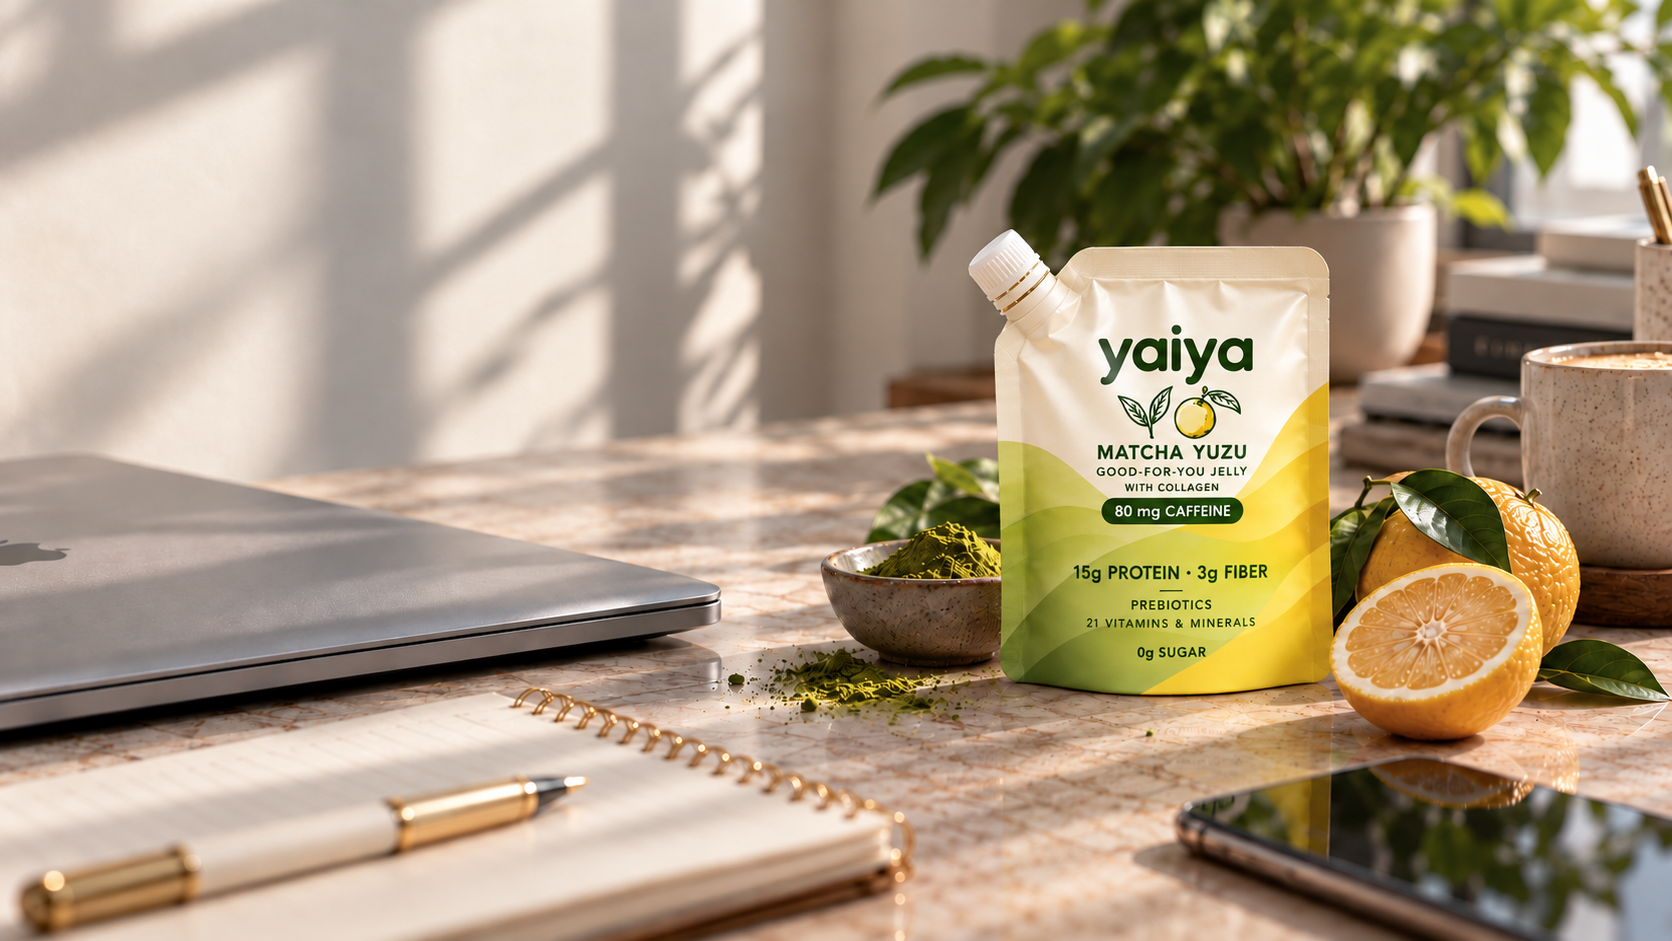
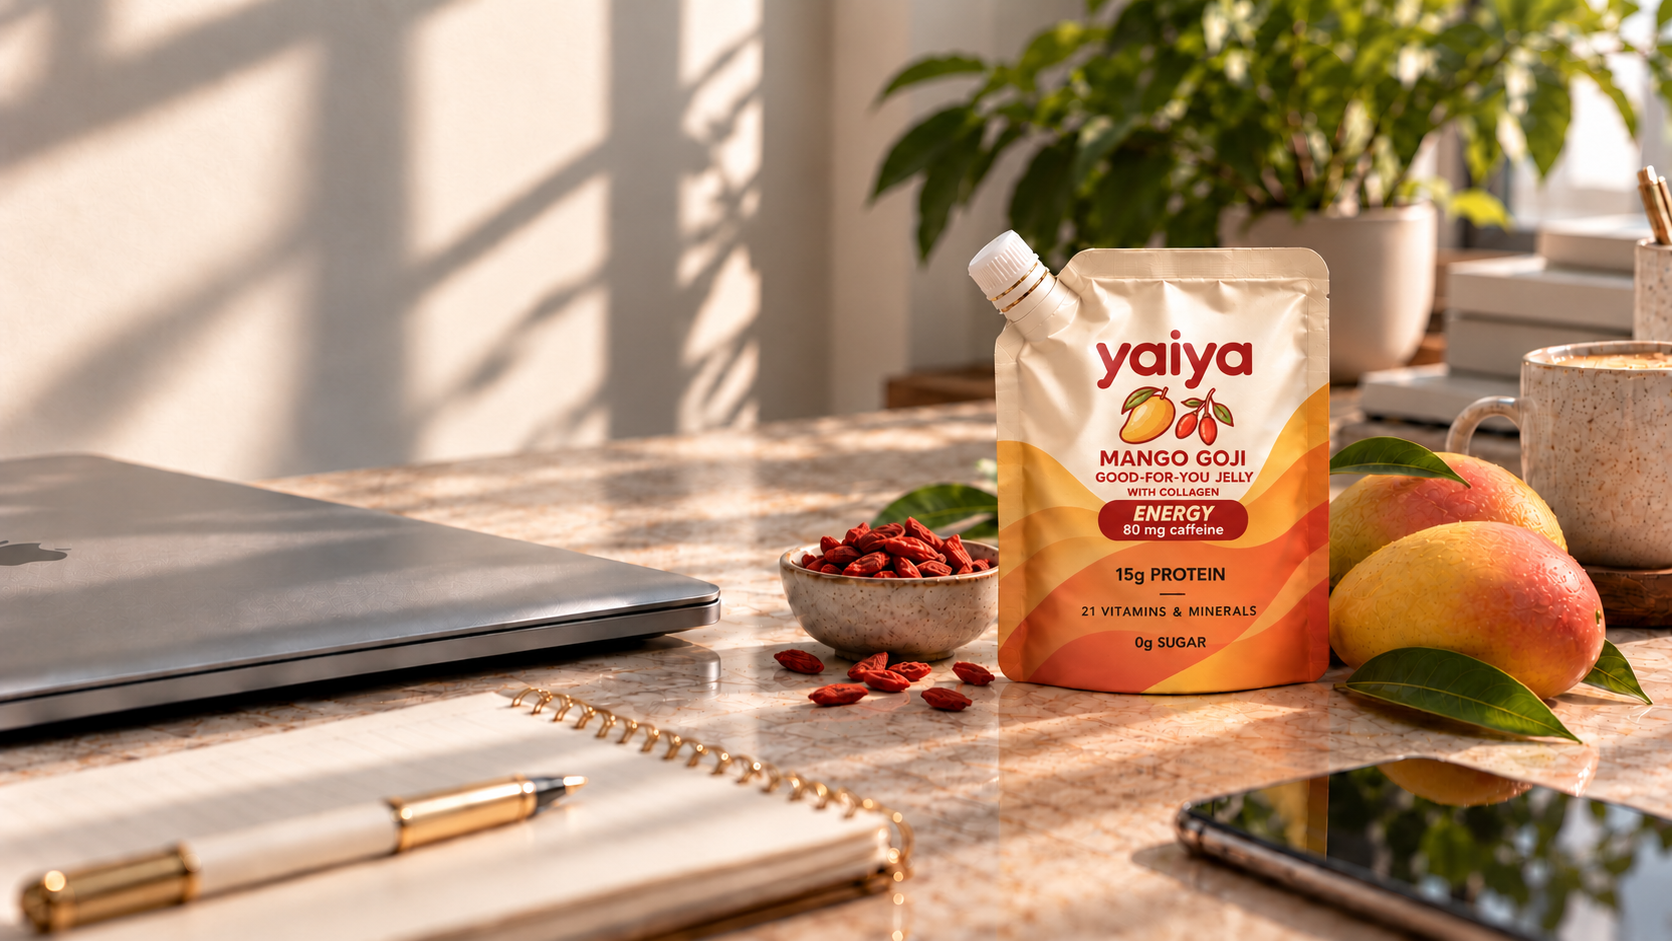
Mango Goji replaces Matcha Yuzu
- Content: flavor, descriptors, taste line, caffeine (80mg moves with it),
  caffeine tab and FAQ, ticker, benefits, comparison, What's inside, alts.
  Slug mango-goji; the old slug is now rejected (test added).
- Visuals: Mango Goji pouch cutout, orange card tone (ink 6.2:1), new hero
  lineup, desk, Mango Goji and tote frames (v5), occasion desk and tote
  photos, share image. Matcha tokens and images removed.
- Copy pending founder review is marked TODO(founder) (C-31).

diff --git a/content/site.ts b/content/site.ts
@@ -25,11 +25,12 @@ export const FLAVORS = [
     tone: "chocolate",
   },
   {
-    slug: "matcha-yuzu",
-    name: "Matcha Yuzu",
-    descriptors: "Bright. Citrusy. Uplifting.", // C-16
-    image: "/images/flavor-matcha-yuzu.jpg",
-    tone: "matcha",
+    // Replaced Matcha Yuzu (founder, 31 Oct). TODO(founder): review the descriptors (C-31).
+    slug: "mango-goji",
+    name: "Mango Goji",
+    descriptors: "Juicy. Tropical. Bright.",
+    image: "/images/flavor-mango-goji.jpg",
+    tone: "mango",
   },
 ] as const;
 
@@ -63,7 +64,7 @@ const TARGETS = {
   protein: "15g",
   whey: "11g", // Q-01 answered 10 Oct
   collagen: "4g", // Q-01 answered 10 Oct
-  caffeine: "80mg", // Matcha Yuzu only. Q-16 answered 10 Oct
+  caffeine: "80mg", // Mango Goji only (moved from Matcha Yuzu 31 Oct; pack prints 80 mg). Q-16
   fiber: "3g",
   sugar: "0g",
   dailyValue: "25%",
@@ -77,7 +78,7 @@ export const site = {
     title: "YAIYA | A new kind of protein jelly snack",
     description:
       "Soft, squeezable jelly with protein, collagen, fiber and vitamins. Join the waitlist for early access.",
-    ogImage: "/images/og-v5.jpg",
+    ogImage: "/images/og-v6.jpg",
   },
 
   features: {
@@ -154,7 +155,7 @@ export const site = {
      */
     film: {
       label:
-        "A short looping film: a Matcha Yuzu pouch on a sunny desk, a hand picking it up, soft peach jelly on a spoon, each flavor with its fruit or chocolate, the pouch slipped into a tote bag, and all three pouches with the jelly mascot Wobbie.",
+        "A short looping film: a Mango Goji pouch on a sunny desk, a hand picking it up, soft peach jelly on a spoon, each flavor with its fruit or chocolate, the pouch slipped into a tote bag, and all three pouches with the jelly mascot Wobbie.",
       pause: "Pause the hero animation",
       play: "Play the hero animation",
       // `note` is the handwritten line that writes in beside the product. Personality only:
@@ -169,7 +170,7 @@ export const site = {
         { id: "strawberry-peach", note: "juicy strawberry, delicious collagen", ms: 1900 },
         { id: "chocolate-silk", note: "this is the guilty part", ms: 2000 },
         // Approved: "never artificial sweeteners".
-        { id: "matcha-yuzu", note: "zero artificial sweeteners, all the sweet", ms: 1900 },
+        { id: "mango-goji", note: "zero artificial sweeteners, all the sweet", ms: 1900 },
         { id: "to-go", note: "pocket-sized. no fridge.", ms: 2000 },
       ],
     },
@@ -181,7 +182,7 @@ export const site = {
     "Soft, squeezable jelly",
     "Chocolate Silk",
     `${TARGETS.protein} protein*`,
-    "Matcha Yuzu",
+    "Mango Goji",
     "No fridge, no spoon",
     "Pocket-sized",
   ],
@@ -204,7 +205,7 @@ export const site = {
       // C-08: mockup said "Real, Delicious Flavors".
       title: "Seriously Good Flavors",
       // C-08: mockup said "Made with real ingredients you can taste."
-      line: "Strawberry Peach, Chocolate Silk and Matcha Yuzu.",
+      line: "Strawberry Peach, Chocolate Silk and Mango Goji.",
     },
     {
       id: "pocket",
@@ -223,8 +224,8 @@ export const site = {
     /**
      * The breakout panel shown when a flavor is picked.
      * TODO(founder): review the taste descriptions; they stay within the flavor names.
-     * Matcha Yuzu caffeine shown here at the founder's request (11 Oct), replacing D-20's
-     * "FAQ and Matcha tab only".
+     * The caffeine flavor (Mango Goji since 31 Oct) shows it here at the founder's request (11 Oct),
+     * replacing D-20's "FAQ and caffeine tab only".
      */
     detail: {
       notesLabel: "Tastes like",
@@ -250,9 +251,10 @@ export const site = {
           extraFacts: [],
           extraNote: "",
         },
-        "matcha-yuzu": {
-          description: "Earthy matcha meets bright, citrusy yuzu in a clean, uplifting jelly.",
-          notes: ["Matcha", "Yuzu"],
+        // TODO(founder): review this taste description (C-31).
+        "mango-goji": {
+          description: "Ripe, juicy mango and tangy goji berry in a bright, tropical jelly.",
+          notes: ["Mango", "Goji berry"],
           extraFacts: [{ id: "caffeine", value: TARGETS.caffeine, label: "caffeine*" }],
           extraNote: "The only YAIYA flavor with caffeine.",
         },
@@ -321,16 +323,16 @@ export const site = {
         id: "busy-day",
         name: "The Busy-Day Multitasker",
         line: "Between meetings. Between everything.",
-        image: "/images/occasion-busy-day-v6.jpg",
-        alt: "A Matcha Yuzu pouch on a wooden desk beside a laptop, a mug of coffee and a notebook with a to-do list.",
+        image: "/images/occasion-busy-day-v7.jpg",
+        alt: "A Mango Goji pouch on a wooden desk beside a laptop, a mug of coffee and a notebook with a to-do list.",
         moments: ["between-meetings", "commute", "hungry-not-meal"],
       },
       {
         id: "wellness-snacker",
         name: "The Everyday Wellness Snacker",
         line: "Something sweet. Something more.",
-        image: "/images/occasion-wellness-snacker-v5.jpg",
-        alt: "Strawberry Peach, Chocolate Silk and Matcha Yuzu pouches in an open canvas tote with a book, car keys and a water bottle.",
+        image: "/images/occasion-wellness-snacker-v6.jpg",
+        alt: "Strawberry Peach, Chocolate Silk and Mango Goji pouches in an open canvas tote with a book, car keys and a water bottle.",
         moments: ["travel", "out-the-door", "afternoon-snack"],
       },
     ],
@@ -460,7 +462,7 @@ export const site = {
         id: "flavors",
         // C-08: mockup said "Real Flavors / from fruits, cocoa and tea".
         name: "Flavors",
-        line: "Strawberry peach, chocolate and matcha yuzu",
+        line: "Strawberry peach, chocolate and mango goji",
         icon: "flavors",
       },
     ],
@@ -555,12 +557,14 @@ export const site = {
       },
       {
         id: "energy",
-        label: "Matcha energy",
+        // Tab id stays "energy" (analytics). Label says what it is, not what it does (07 rule 2).
+        // TODO(founder): the caffeine source, now that matcha is gone (C-31).
+        label: "Caffeine",
         value: TARGETS.caffeine,
-        valueLabel: "caffeine target in Matcha Yuzu",
-        title: "A little matcha moment.",
-        body: `Matcha Yuzu has the same ${TARGETS.protein} protein target as the other flavors, plus ${TARGETS.caffeine} of caffeine.`,
-        note: "Only Matcha Yuzu contains caffeine. Final caffeine content will be measured and labeled.",
+        valueLabel: "caffeine target in Mango Goji",
+        title: "The one with caffeine.",
+        body: `Mango Goji has the same ${TARGETS.protein} protein target as the other flavors, plus ${TARGETS.caffeine} of caffeine.`,
+        note: "Only Mango Goji contains caffeine. Final caffeine content will be measured and labeled.",
       },
     ],
   },
@@ -678,7 +682,7 @@ export const site = {
         id: "experience",
         label: "The experience",
         cells: [
-          { main: "Three signature pairings", sub: "Strawberry Peach · Chocolate Silk · Matcha Yuzu" },
+          { main: "Three signature pairings", sub: "Strawberry Peach · Chocolate Silk · Mango Goji" },
           { main: "Drink from a bottle", sub: "Chocolate example" },
           { main: "Chew a bar", sub: "Chocolate sea salt example" },
           { main: "Squeeze and chew", sub: "Peach example" },
@@ -710,7 +714,7 @@ export const site = {
         id: "taste",
         q: "What does it taste like?",
         // DRAFT
-        a: "Like the flavor on the front: Strawberry Peach, Chocolate Silk or Matcha Yuzu, in a soft jelly you squeeze straight from the pouch. We're still perfecting the recipes, and waitlist members will be the first to try them.",
+        a: "Like the flavor on the front: Strawberry Peach, Chocolate Silk or Mango Goji, in a soft jelly you squeeze straight from the pouch. We're still perfecting the recipes, and waitlist members will be the first to try them.",
       },
       {
         id: "when",
@@ -729,10 +733,10 @@ export const site = {
         a: "No. YAIYA is a snack.",
       },
       {
-        id: "matcha",
-        q: "What makes Matcha Yuzu different?",
-        // Q-02 and Q-16 answered 10 Oct: protein and 80mg caffeine.
-        a: `Matcha Yuzu has the same protein as our other flavors, plus caffeine. Our recipe target is ${TARGETS.caffeine} per pouch. The other two flavors have none.`,
+        id: "caffeine",
+        q: "Which flavor has caffeine?",
+        // Q-02 and Q-16 answered 10 Oct: protein and 80mg caffeine. Moved to Mango Goji 31 Oct.
+        a: `Mango Goji. It has the same protein as our other flavors, plus caffeine. Our recipe target is ${TARGETS.caffeine} per pouch. The other two flavors have none.`,
       },
       {
         id: "protein",

diff --git a/tests/signup.test.ts b/tests/signup.test.ts
@@ -106,7 +106,7 @@ describe("POST /api/signup", () => {
 
 describe("POST /api/signup/answers", () => {
   it("returns 401 without a session cookie", async () => {
-    const res = await answers(post("/api/signup/answers", { flavor_preference: "matcha-yuzu" }));
+    const res = await answers(post("/api/signup/answers", { flavor_preference: "mango-goji" }));
     expect(res.status).toBe(401);
     expect(await res.json()).toEqual({ ok: false, error: "no_session" });
   });
@@ -115,6 +115,8 @@ describe("POST /api/signup/answers", () => {
     const id = crypto.randomUUID();
     const cookie = `yaiya_sid=${id}`;
     expect((await answers(post("/api/signup/answers", { flavor_preference: "mint-choc" }, { cookie }))).status).toBe(400);
+    // Retired flavor (replaced by Mango Goji, 31 Oct).
+    expect((await answers(post("/api/signup/answers", { flavor_preference: "matcha-yuzu" }, { cookie }))).status).toBe(400);
     expect((await answers(post("/api/signup/answers", { occasion_preferences: ["moon-landing"] }, { cookie }))).status).toBe(400);
     expect((await answers(post("/api/signup/answers", { pack_preference: "case-99" }, { cookie }))).status).toBe(400);
   });
@@ -125,7 +127,7 @@ describe("POST /api/signup/answers", () => {
     const res = await answers(
       post(
         "/api/signup/answers",
-        { flavor_preference: "matcha-yuzu", occasion_preferences: ["afternoon-snack"], pack_preference: "variety-4-6", snack_instead: "protein bars" },
+        { flavor_preference: "mango-goji", occasion_preferences: ["afternoon-snack"], pack_preference: "variety-4-6", snack_instead: "protein bars" },
         { cookie: `yaiya_sid=${id}` },
       ),
     );

diff --git a/components/sections/IngredientTabs.tsx b/components/sections/IngredientTabs.tsx
@@ -1,6 +1,6 @@
 "use client";
 
-import { Candy, Droplet, Dumbbell, Leaf, Sparkles, Sun, type LucideProps } from "lucide-react";
+import { Candy, Coffee, Droplet, Dumbbell, Sparkles, Sun, type LucideProps } from "lucide-react";
 import { useId, useRef, useState } from "react";
 import { track } from "@/lib/analytics";
 import { CountUp } from "@/components/ui/CountUp";
@@ -16,7 +16,7 @@ type IngredientTabsProps = {
 type IconComponent = (props: LucideProps & React.SVGProps<SVGSVGElement>) => React.ReactNode;
 
 // Each tab's icon and colors, keyed by tab id. Full class strings so Tailwind sees them.
-// Leaf is for matcha only, never protein or collagen (C-01).
+// No leaf or plant icons for protein or collagen (C-01).
 const THEME: Record<string, { Icon: IconComponent; soft: string; dot: string }> = {
   protein: { Icon: Dumbbell, soft: "bg-highlight", dot: "bg-blush" },
   konjac: { Icon: JellyIcon, soft: "bg-mint-soft", dot: "bg-mint" },
@@ -24,7 +24,7 @@ const THEME: Record<string, { Icon: IconComponent; soft: string; dot: string }> 
   vitamins: { Icon: Sun, soft: "bg-mango-soft", dot: "bg-mango" },
   magnesium: { Icon: Sparkles, soft: "bg-lilac-soft", dot: "bg-lilac" },
   sweeteners: { Icon: Candy, soft: "bg-highlight", dot: "bg-blush" },
-  energy: { Icon: Leaf, soft: "bg-matcha", dot: "bg-mint" },
+  energy: { Icon: Coffee, soft: "bg-mango-goji", dot: "bg-mango" },
 };
 
 /** WAI-ARIA tabs pattern with automatic activation. Pills on phones, a side menu on desktop. */

diff --git a/components/HeroAnimation.tsx b/components/HeroAnimation.tsx
@@ -18,7 +18,7 @@ const FADE_MS = 1600;
 /** Never wait longer than this for the next frame's image before cutting to it anyway. */
 const DECODE_CAP_MS = 2500;
 /** Matches VERSION in scripts/extend-hero.mjs; bumped when photos change so caches refresh. */
-const FRAME_VERSION = "v4";
+const FRAME_VERSION = "v5";
 /** Above the default 75: these photos are the brand's first impression. */
 const QUALITY = 88;
 
@@ -35,7 +35,7 @@ const STAGE: Record<string, { focus: string; note: { left: string; top: string; 
   jelly: { focus: "80% 40%", note: { left: "50%", top: "15%", rotate: -4, arrow: "down" } },
   "strawberry-peach": { focus: "70% 50%", note: { left: "44%", top: "24%", rotate: -5, arrow: "down", width: "7.4em" } },
   "chocolate-silk": { focus: "70% 55%", note: { left: "40.5%", top: "15%", rotate: -5, arrow: "down", width: "5.2em" } },
-  "matcha-yuzu": { focus: "70% 55%", note: { left: "41%", top: "15%", rotate: -4, arrow: "down", width: "11em" } },
+  "mango-goji": { focus: "70% 55%", note: { left: "41%", top: "15%", rotate: -4, arrow: "down", width: "11em" } },
   "to-go": { focus: "72% 40%", note: { left: "41%", top: "20%", rotate: -5, arrow: "down", width: "5.8em" } },
 };
 

diff --git a/components/sections/Flavors.tsx b/components/sections/Flavors.tsx
@@ -49,10 +49,10 @@ const ART: Record<FlavorSlug, Piece[]> = {
       delay: "-1.3s",
     },
   ],
-  "matcha-yuzu": [
+  "mango-goji": [
     {
-      src: "/images/pouch-matcha-yuzu-v4.png",
-      width: 584,
+      src: "/images/pouch-mango-goji-v1.png",
+      width: 585,
       height: 800,
       style: { ...POUCH_STYLE, rotate: "-3deg" },
       hover: "group-hover:-translate-y-2 group-hover:-rotate-2 group-hover:scale-105",
@@ -65,7 +65,7 @@ const ART: Record<FlavorSlug, Piece[]> = {
 const TONES = {
   strawberry: { card: "bg-strawberry", ink: "text-strawberry-ink", dot: "bg-accent", blob: "fill-white/45" },
   chocolate: { card: "bg-chocolate", ink: "text-chocolate-ink", dot: "bg-mango", blob: "fill-white/35" },
-  matcha: { card: "bg-matcha", ink: "text-matcha-ink", dot: "bg-mint", blob: "fill-white/45" },
+  mango: { card: "bg-mango-goji", ink: "text-mango-goji-ink", dot: "bg-mango", blob: "fill-white/45" },
 } as const;
 
 // Confetti directions for the pick burst.

diff --git a/components/sections/Nutrition.tsx b/components/sections/Nutrition.tsx
@@ -20,7 +20,7 @@ const TINTS: Record<string, string> = {
 // The three pouches, fanned out. Decorative: the flavor section names them.
 const FAN = [
   { src: "/images/pouch-chocolate-silk-v4.png", w: 587, h: 800, cls: "left-[2%] top-[10%] -rotate-12 z-0", delay: "-1.2s" },
-  { src: "/images/pouch-matcha-yuzu-v4.png", w: 584, h: 800, cls: "right-[2%] top-[10%] rotate-12 z-0", delay: "-2.4s" },
+  { src: "/images/pouch-mango-goji-v1.png", w: 585, h: 800, cls: "right-[2%] top-[10%] rotate-12 z-0", delay: "-2.4s" },
   { src: "/images/pouch-strawberry-peach-v4.png", w: 563, h: 800, cls: "left-1/2 top-0 -translate-x-1/2 z-10", delay: "0s" },
 ];
 

diff --git a/tests/logging.test.ts b/tests/logging.test.ts
@@ -71,7 +71,7 @@ describe("request logging", () => {
 
   it("logs rejections as warnings with a reason", async () => {
     await signup(req("/api/signup", "POST", { email: "nope" }));
-    await answers(req("/api/signup/answers", "POST", { flavor_preference: "matcha-yuzu" }));
+    await answers(req("/api/signup/answers", "POST", { flavor_preference: "mango-goji" }));
     expect(lines[0]).toMatchObject({ level: "warn", status: 400, reason: "invalid_email" });
     expect(lines[1]).toMatchObject({ level: "warn", route: "answers", status: 401, reason: "no_session" });
   });

diff --git a/app/globals.css b/app/globals.css
@@ -33,8 +33,9 @@
   --color-strawberry-ink: #b3123b;
   --color-chocolate: #f2c9a8;
   --color-chocolate-ink: #5a2a14;
-  --color-matcha: #ddf0b4;
-  --color-matcha-ink: #3d5410;
+  /* Mango Goji card (31 Oct): ink on card is 6.2:1. */
+  --color-mango-goji: #ffd6a0;
+  --color-mango-goji-ink: #8a2e12;
   --color-white: #ffffff;
   --color-transparent: transparent;
   --color-current: currentColor;
